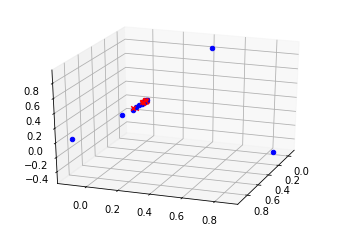
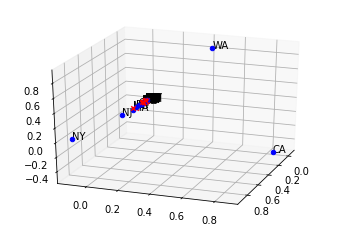
fix grouping variables

diff --git a/jennifer/data.py b/jennifer/data.py
@@ -45,19 +45,18 @@ svd_df=svd_df.reset_index()
 svd_df.rename(columns={'index':'State'}, inplace=True)
 svd_df.head()
  
-# take in party variable
-state = pd.read_csv("../data/covid data/state_party.csv")
-svd_df['party'] = state['party']
+# take in region variable
+state = pd.read_csv("../data/covid data/state_region.csv")
+svd_df['region'] = state['region']
 
 # Scatter plot: SV1 and SV2
-sns.scatterplot(x="SV1", y="SV2", hue="party", 
+sns.scatterplot(x="SV1", y="SV2", hue="region", 
                 data=svd_df, s=100,
                 alpha=0.7)
 for j in range(svd_df.shape[0]):  
     plt.text(svd_df['SV1'][j],svd_df['SV2'][j],svd_df['State'][j])
 plt.xlabel('SV 1: {0}%'.format(var_explained[0]*100), fontsize=16)
 plt.ylabel('SV 2: {0}%'.format(var_explained[1]*100), fontsize=16)
-plt.text
 
 # data frame containing the first three singular values
 labels1= ['SV'+str(i) for i in range(1,4)]
@@ -67,17 +66,29 @@ svd_df1.rename(columns={'index':'State'}, inplace=True)
 svd_df1.head()
 
 # take in party variable
-svd_df1['party']=(state['party']=="Republican")
+svd_df1['region'] = state['region']
 
 # 3D Scatter plot: SV1, SV2, and SV3
 fig2 = plt.figure()
 ax = fig2.add_subplot(111,projection = '3d')
 #ax.scatter(svd_df1['SV1'],svd_df1['SV2'],svd_df1['SV3'],c=svd_df1['party'],cmap = 'coolwarm',)    
 for j in range(svd_df1.shape[0]):
-    if svd_df1.loc[j,'party']:
-        ax.scatter(svd_df1['SV1'][j],svd_df1['SV2'][j],svd_df1['SV3'][j], marker = 'x', color = 'r')
+    if svd_df1.loc[j,'region']=="South":
+        ax.scatter(svd_df1['SV1'][j],svd_df1['SV2'][j],svd_df1['SV3'][j], color = 'r')
+    elif svd_df1.loc[j,'region']=="Pacific":
+        ax.scatter(svd_df1['SV1'][j],svd_df1['SV2'][j],svd_df1['SV3'][j], color = 'b')    
+    elif svd_df1.loc[j,'region']=="Mountain States":
+        ax.scatter(svd_df1['SV1'][j],svd_df1['SV2'][j],svd_df1['SV3'][j], color = 'y')    
+    elif svd_df1.loc[j,'region']=="New England":
+        ax.scatter(svd_df1['SV1'][j],svd_df1['SV2'][j],svd_df1['SV3'][j], color = 'm')
+    elif svd_df1.loc[j,'region']=="Middle Atlantic":
+        ax.scatter(svd_df1['SV1'][j],svd_df1['SV2'][j],svd_df1['SV3'][j], color = 'c')
+    elif svd_df1.loc[j,'region']=="West North Central":
+        ax.scatter(svd_df1['SV1'][j],svd_df1['SV2'][j],svd_df1['SV3'][j], color = 'k')
+    elif svd_df1.loc[j,'region']=="East North Central":
+        ax.scatter(svd_df1['SV1'][j],svd_df1['SV2'][j],svd_df1['SV3'][j], color = 'w')    
     else:
-        ax.scatter(svd_df1['SV1'][j],svd_df1['SV2'][j],svd_df1['SV3'][j], marker = 'o', color = 'b')    
+        ax.scatter(svd_df1['SV1'][j],svd_df1['SV2'][j],svd_df1['SV3'][j], color = 'g')    
     ax.text(svd_df1['SV1'][j],svd_df1['SV2'][j],svd_df1['SV3'][j],svd_df1['State'][j])
 ax.view_init(25,20)
 ax.legend
